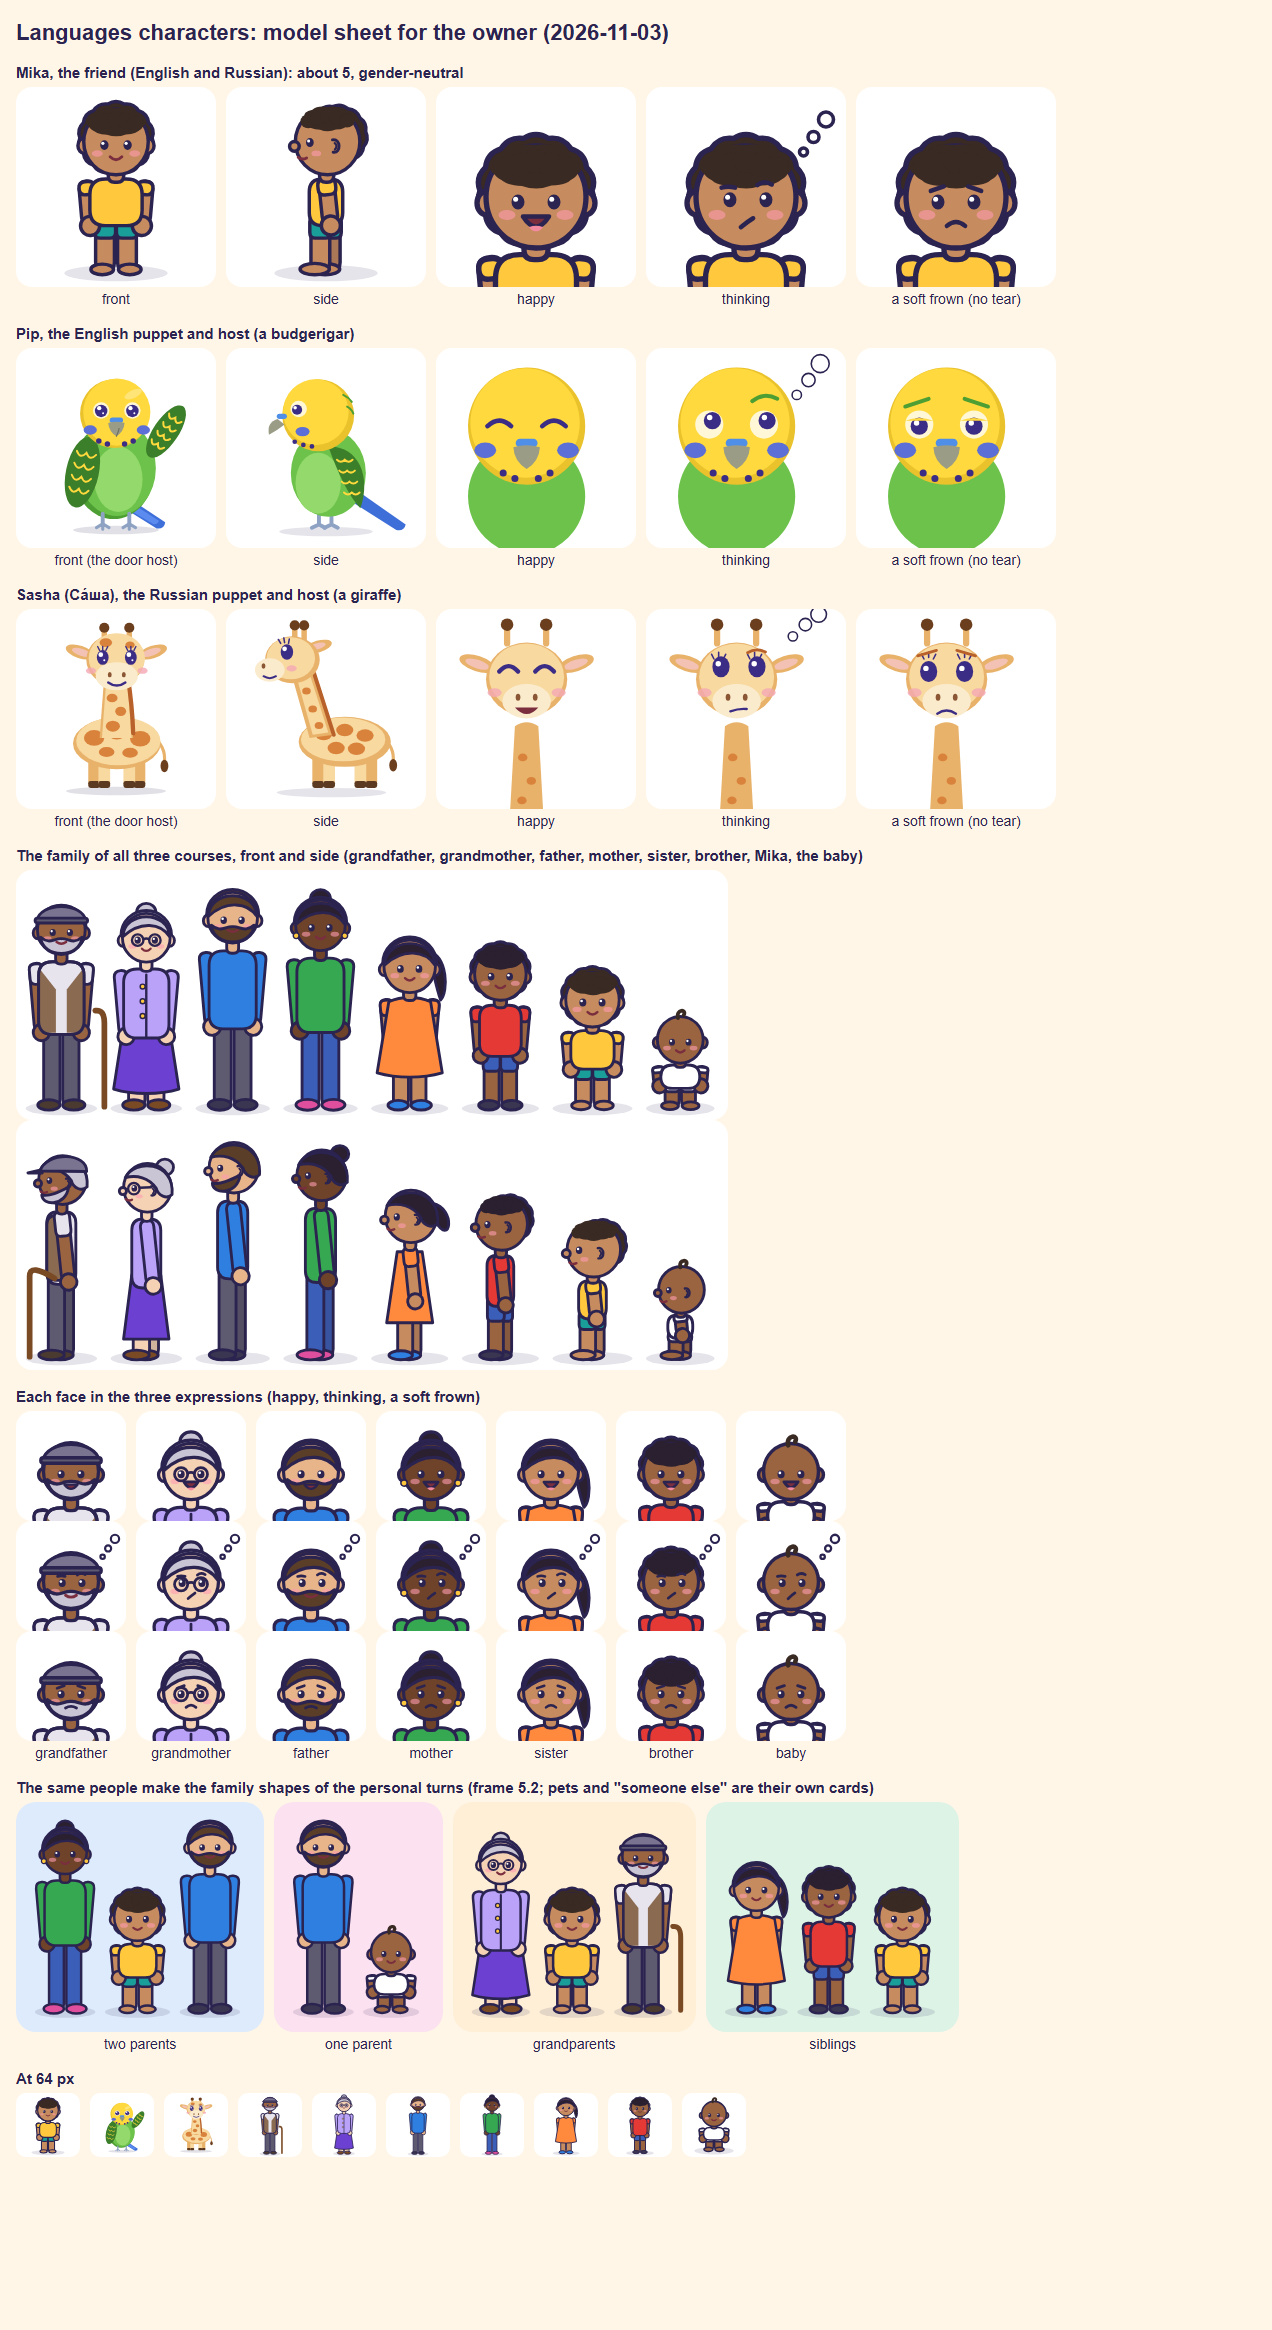
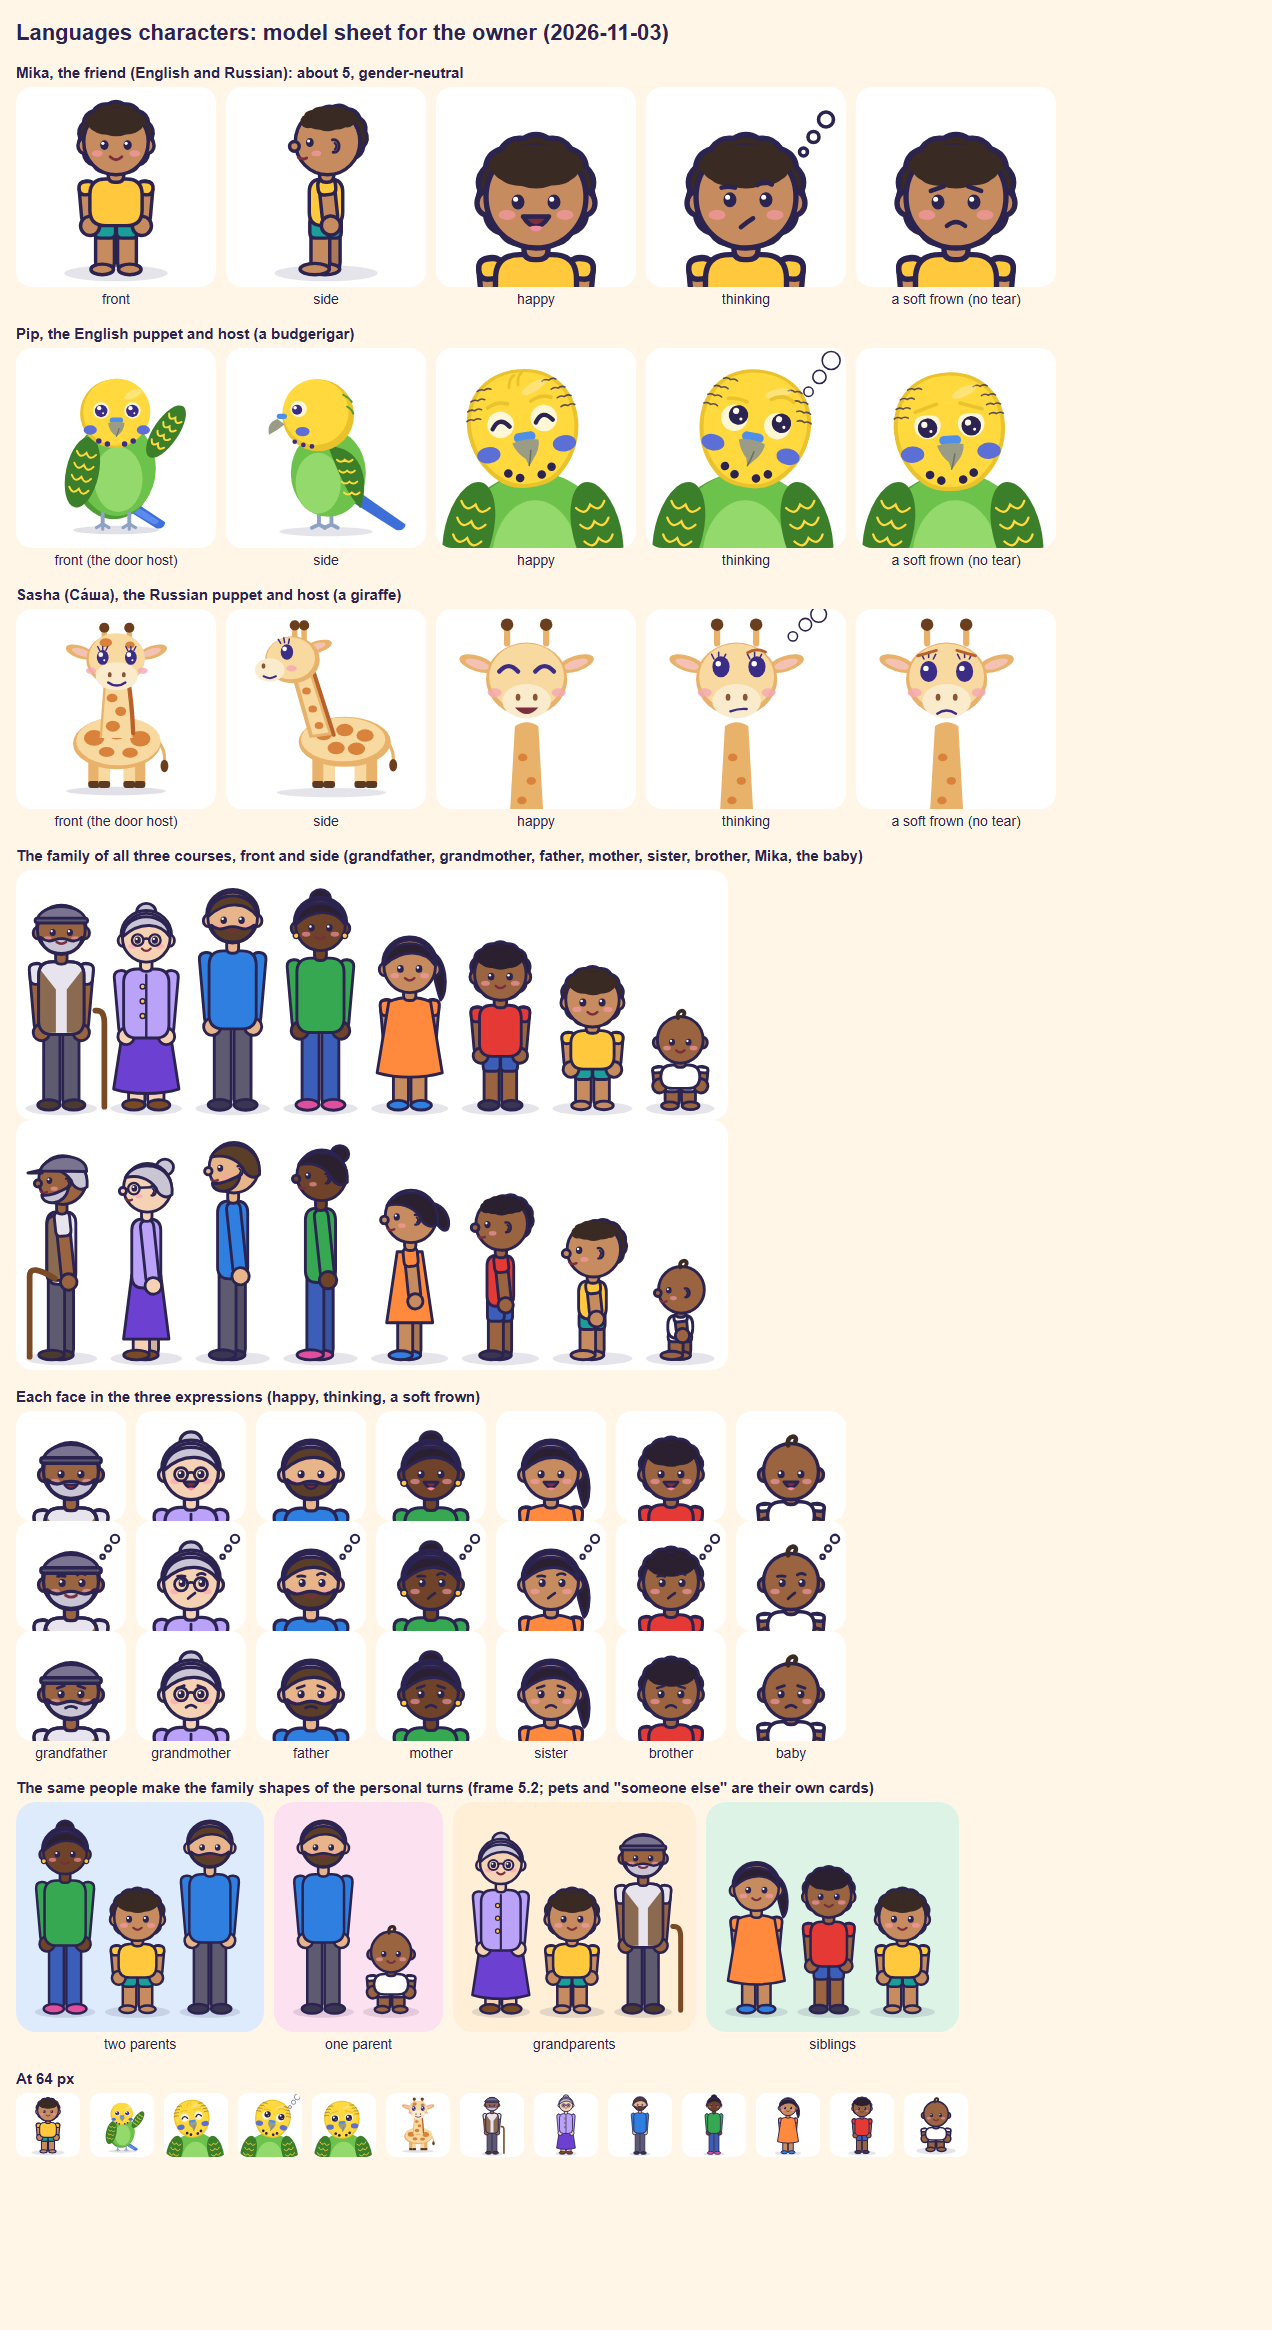
Languages characters: Pip's three expressions redrawn as the real budgerigar from the chest up (the door host's crown, barred sides, cheek patches, throat spots, cere and hooked beak, green chest and barred wing edges), the expression in the eyes, brow feathers and head tilt, no human mouth; the mod

diff --git a/tools/make_language_characters.py b/tools/make_language_characters.py
@@ -385,31 +385,76 @@ def pip_side():
     return out
 
 
-def pip_head(expr):
+def pip_wing(cx, cy, rx, ry, rot):
+    """A folded budgerigar wing as on the door host: dark green, barred with yellow scallops."""
     c = PIP
-    out = ['<circle cx="256" cy="380" r="150" fill="%s"/>' % c['green'],
-           '<circle cx="256" cy="200" r="150" fill="%s"/>' % c['face'],
-           '<circle cx="252" cy="192" r="140" fill="%s"/>' % c['yellow']]
-    out += ['<ellipse cx="%d" cy="262" rx="28" ry="20" fill="%s"/>' % (x, c['cheek']) for x in (150, 362)]
-    out += ['<circle cx="%d" cy="%d" r="9" fill="#3B2C85"/>' % xy for xy in ((196, 320), (226, 334), (286, 334), (316, 320))]
-    out.append('<rect x="228" y="232" width="56" height="22" rx="11" fill="%s"/>' % c['cere'])
-    out.append('<path d="M 222 254 Q 256 244 290 254 Q 288 290 256 310 Q 224 290 222 254 Z" fill="%s"/>' % c['beak'])
-    for x in (186, 326):
+    t = 'rotate(%s %s %s)' % (f(rot), f(cx), f(cy))
+    out = ['<ellipse cx="%s" cy="%s" rx="%s" ry="%s" fill="%s" transform="%s"/>' % (f(cx), f(cy), f(rx), f(ry), c['wing'], t)]
+    for k in range(4):
+        yy = cy - ry * 0.55 + k * ry * 0.34
+        out.append('<path d="M%s %s q%s %s %s 0 q%s %s %s 0" fill="none" stroke="%s" stroke-width="6" stroke-linecap="round" transform="%s"/>'
+                   % (f(cx - rx * 0.6), f(yy), f(rx * 0.3), f(ry * 0.22), f(rx * 0.6), f(rx * 0.3), f(ry * 0.22), f(rx * 0.6), c['yellow'], t))
+    return out
+
+
+def pip_head(expr):
+    """Pip from the chest up, the same bird as the door host: a round crown that flows into the throat (no neck), the
+    yellow face and forehead with fine dark bars on the crown's sides, the violet-blue cheek patches, the four black throat
+    spots, the blue cere over a short hooked beak, the green chest and the barred wing edges at the shoulders. The
+    expression is in the eyes, the brow feathers and the tilt of the head; a bird has no mouth to smile with."""
+    c = PIP
+    tilt = {'happy': -9, 'think': 11, 'frown': -3}[expr]
+    drop = {'happy': 0, 'think': 0, 'frown': 10}[expr]
+    out = ['<ellipse cx="256" cy="520" rx="196" ry="200" fill="%s"/>' % c['green_d'],
+           '<ellipse cx="262" cy="514" rx="188" ry="196" fill="%s"/>' % c['green'],
+           '<ellipse cx="262" cy="540" rx="110" ry="150" fill="%s"/>' % c['belly']]
+    out += pip_wing(92, 470, 62, 130, 14) + pip_wing(420, 470, 62, 130, -14)
+    out.append('<g transform="translate(0 %d) rotate(%d 256 360)">' % (drop, tilt))
+    head = ('M 256 52 C 352 52, 404 124, 398 204 C 394 262, 366 304, 336 330 C 316 348, 290 356, 256 356 '
+            'C 222 356, 196 348, 176 330 C 146 304, 118 262, 114 204 C 108 124, 160 52, 256 52 Z')
+    out.append('<path d="%s" fill="%s"/>' % (head, c['face']))
+    out.append('<path d="M 256 60 C 346 60, 392 128, 388 202 C 384 258, 358 296, 330 320 C 310 338, 288 346, 256 346 '
+               'C 224 346, 202 338, 182 320 C 154 296, 128 258, 124 202 C 120 128, 166 60, 256 60 Z" fill="%s"/>' % c['yellow'])
+    for sx in (-1, 1):
+        for k, (half, y0) in enumerate(((92, 92), (112, 116), (124, 140), (130, 164))):
+            x0 = 256 + sx * (half - 26)
+            out.append('<path d="M %d %d q %d -6 %d 0 q %d -6 %d 0" fill="none" stroke="%s" stroke-width="4" stroke-linecap="round" opacity="0.75"/>'
+                       % (x0, y0, sx * 9, sx * 18, sx * 9, sx * 18, INK))
+    out.append('<ellipse cx="298" cy="104" rx="34" ry="12" fill="%s" opacity="0.35" transform="rotate(-22 298 104)"/>' % CREAM)
+    if expr == 'happy':
+        out += ['<path d="M %d 96 q 4 -26 18 -30 M %d 92 q 2 -24 14 -30" fill="none" stroke="%s" stroke-width="7" stroke-linecap="round"/>'
+                % (x, x + 24, c['face']) for x in (236,)]
+    out += ['<ellipse cx="%d" cy="258" rx="30" ry="21" fill="%s"/>' % (x, c['cheek']) for x in (158, 354)]
+    out += ['<circle cx="%d" cy="%d" r="11" fill="%s"/>' % (x, y, INK) for x, y in ((200, 312), (228, 328), (284, 328), (312, 312))]
+    for x in (200, 312):
         if expr == 'happy':
-            out.append('<path d="M %d 200 Q %d 172 %d 200" fill="none" stroke="#3B2C85" stroke-width="12" stroke-linecap="round"/>'
-                       % (x - 30, x, x + 30))
+            out.append('<circle cx="%d" cy="186" r="34" fill="#FFF7D6"/>' % x)
+            out.append('<path d="M %d 194 Q %d 162 %d 194" fill="none" stroke="%s" stroke-width="11" stroke-linecap="round"/>' % (x - 22, x, x + 22, INK))
         else:
-            dx, dy = (8, -10) if expr == 'think' else (0, 4)
-            out.append('<circle cx="%d" cy="196" r="36" fill="#FFF7D6"/><circle cx="%d" cy="%d" r="22" fill="#3B2C85"/>'
-                       '<circle cx="%d" cy="%d" r="7" fill="%s"/>' % (x, x + dx, 196 + dy, x + dx - 7, 196 + dy - 8, WHITE))
+            dx, dy = (9, -10) if expr == 'think' else (0, 5)
+            out.append('<circle cx="%d" cy="186" r="34" fill="#FFF7D6"/><circle cx="%d" cy="%d" r="25" fill="%s"/>'
+                       '<circle cx="%d" cy="%d" r="8" fill="%s"/><circle cx="%d" cy="%d" r="4" fill="%s"/>'
+                       % (x, x + dx, 187 + dy, INK, x + dx - 8, 178 + dy, CREAM, x + dx + 8, 196 + dy, CREAM))
+            if expr == 'frown':
+                out.append('<path d="M %d 168 Q %d 150 %d 168 L %d 160 Q %d 140 %d 160 Z" fill="%s"/>'
+                           % (x - 36, x, x + 36, x + 36, x, x - 36, c['yellow']))
+    brow = c['face']
+    if expr == 'happy':
+        out += ['<path d="M %d 138 Q %d 124 %d 136" fill="none" stroke="%s" stroke-width="9" stroke-linecap="round"/>' % (x - 26, x, x + 26, brow)
+                for x in (200, 312)]
+    elif expr == 'think':
+        out.append('<path d="M 176 140 Q 200 134 224 140" fill="none" stroke="%s" stroke-width="9" stroke-linecap="round"/>' % brow)
+        out.append('<path d="M 284 122 Q 312 100 342 118" fill="none" stroke="%s" stroke-width="9" stroke-linecap="round"/>' % brow)
+    else:
+        out += ['<path d="M %d %d L %d %d" fill="none" stroke="%s" stroke-width="9" stroke-linecap="round"/>' % (a, b, cc, d, brow)
+                for a, b, cc, d in ((170, 150, 226, 132), (342, 150, 286, 132))]
+    out.append('<rect x="228" y="214" width="56" height="24" rx="12" fill="%s"/>' % c['cere'])
+    out.append('<path d="M 222 238 Q 256 228 290 238 Q 290 262 270 284 Q 262 296 256 300 Q 252 290 250 282 Q 228 262 222 238 Z" fill="%s"/>' % c['beak'])
+    out.append('<path d="M 256 300 Q 262 284 266 262" fill="none" stroke="#6F7160" stroke-width="4" stroke-linecap="round"/>')
+    out.append('</g>')
     if expr == 'think':
-        out.append('<path d="M 296 136 Q 326 112 360 130" fill="none" stroke="%s" stroke-width="10" stroke-linecap="round"/>' % c['green_d'])
         out += ['<circle cx="%d" cy="%d" r="%d" fill="%s" stroke="%s" stroke-width="4"/>' % (x, y, rr, WHITE, INK)
-                for x, y, rr in ((410, 120, 12), (440, 82, 17), (470, 40, 23))]
-    if expr == 'frown':
-        out += ['<path d="M %d %d L %d %d" fill="none" stroke="%s" stroke-width="10" stroke-linecap="round"/>' % (a, b, cc, d, c['green_d'])
-                for a, b, cc, d in ((150, 150, 210, 130), (362, 150, 302, 130))]
-        out += ['<path d="M %d 186 Q %d 172 %d 186" fill="%s"/>' % (x - 36, x, x + 36, c['yellow']) for x in (186, 326)]
+                for x, y, rr in ((424, 112, 12), (452, 74, 17), (482, 32, 23))]
     return out
 
 
@@ -546,7 +591,7 @@ def build(tmp):
     pieces['pip-front'] = os.path.join(tmp, 'pip-front.svg')
     put('pip-side', svg(pip_side(), (0, 0, 512, 512)))
     for e in ('happy', 'think', 'frown'):
-        put('pip-' + e, svg(pip_head(e), (40, 0, 480, 512)))
+        put('pip-' + e, svg(pip_head(e), (16, 0, 496, 512)))
     shutil.copy(os.path.join(LANG, 'host_rus.svg'), os.path.join(tmp, 'sasha-front.svg'))
     pieces['sasha-front'] = os.path.join(tmp, 'sasha-front.svg')
     put('sasha-side', svg(sasha_side(), (0, 0, 512, 512)))
@@ -593,7 +638,7 @@ def html(pieces, cards):
     body += '<h2>The same people make the family shapes of the personal turns (frame 5.2; pets and "someone else" are their own cards)</h2>'
     body += '<div class="row">%s</div>' % ''.join('<div class="cell">%s<span>%s</span></div>' % (img(c, 270, 230, 'k'), c.replace('card-', '').replace('-', ' '))
                                                   for c in cards)
-    small = ['mika-front', 'pip-front', 'sasha-front'] + [sp['id'] + '-small' for sp in FAMILY if sp['id'] != 'mika']
+    small = ['mika-front', 'pip-front', 'pip-happy', 'pip-think', 'pip-frown', 'sasha-front'] + [sp['id'] + '-small' for sp in FAMILY if sp['id'] != 'mika']
     body += '<h2>At 64 px</h2><div class="row">%s</div>' % ''.join(img(n, 64, cls='s') for n in small)
     return ('<html><body style="margin:0;padding:16px;background:#FFF6E8;width:1240px;font:14px sans-serif;color:#2B2350">'
             '<style>h1{font-size:22px;margin:4px 0 8px}h2{font-size:15px;margin:18px 0 6px}.row{display:flex;flex-wrap:wrap;gap:10px}'
